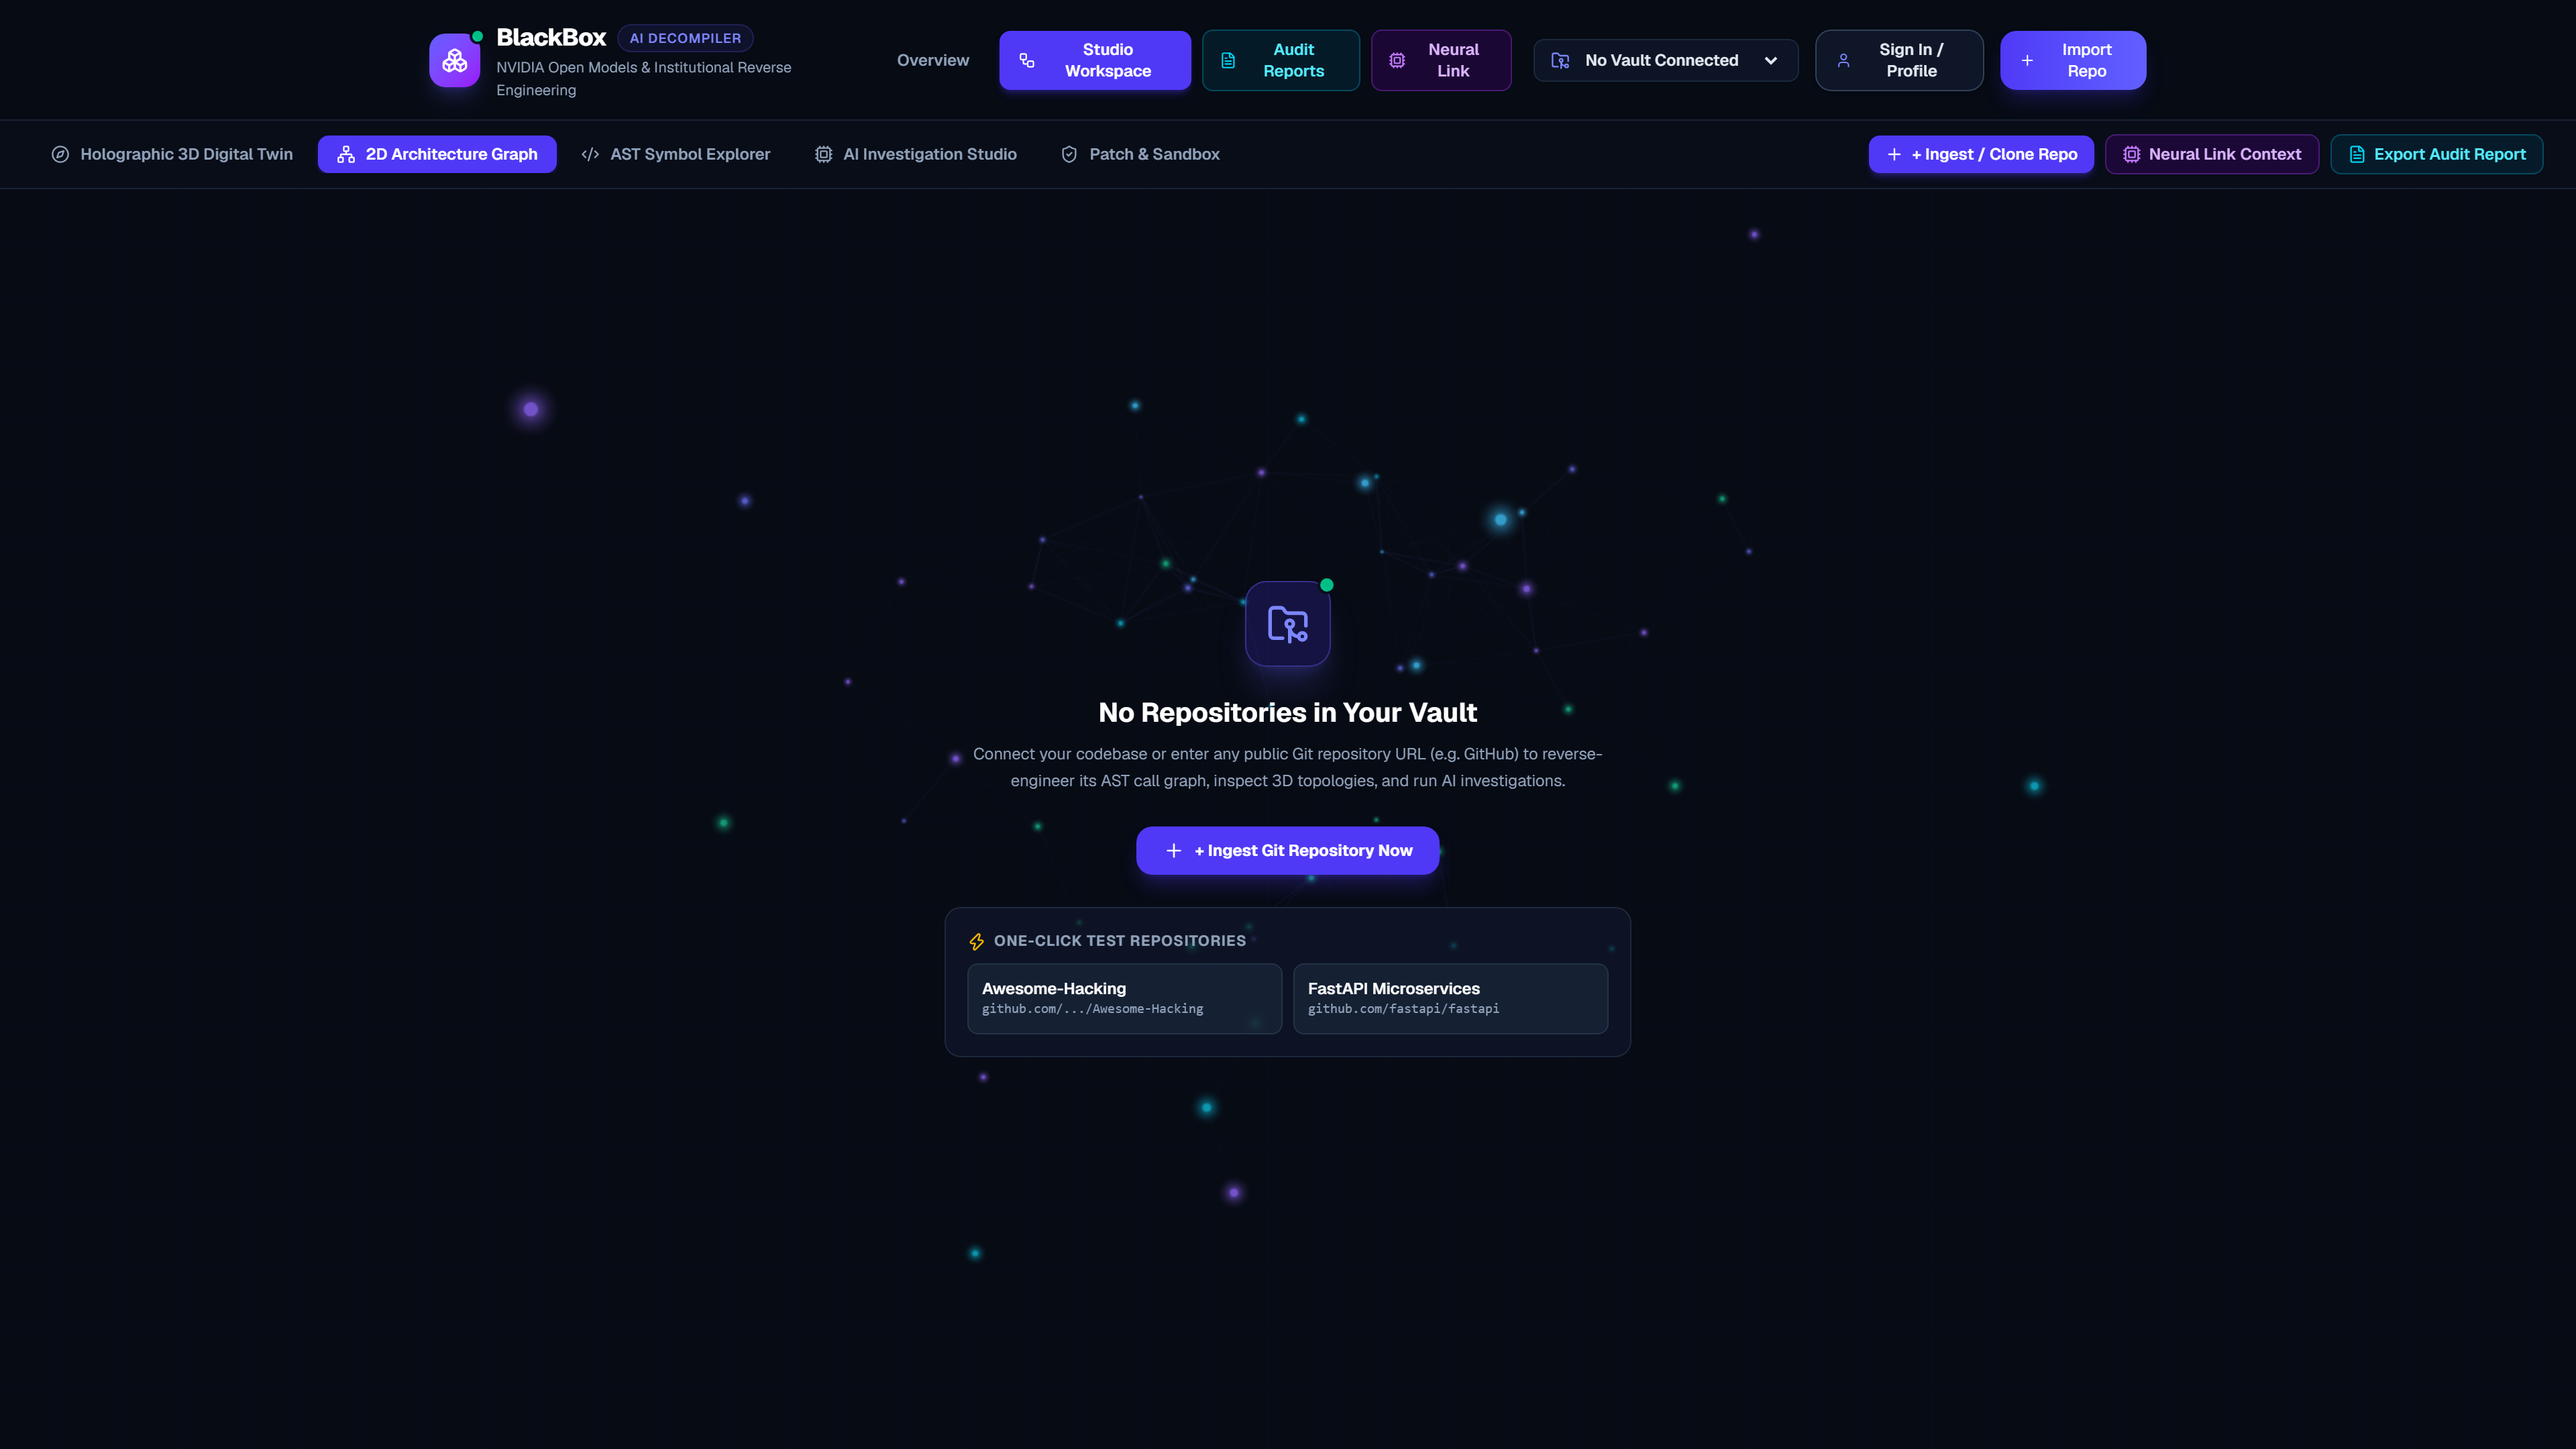
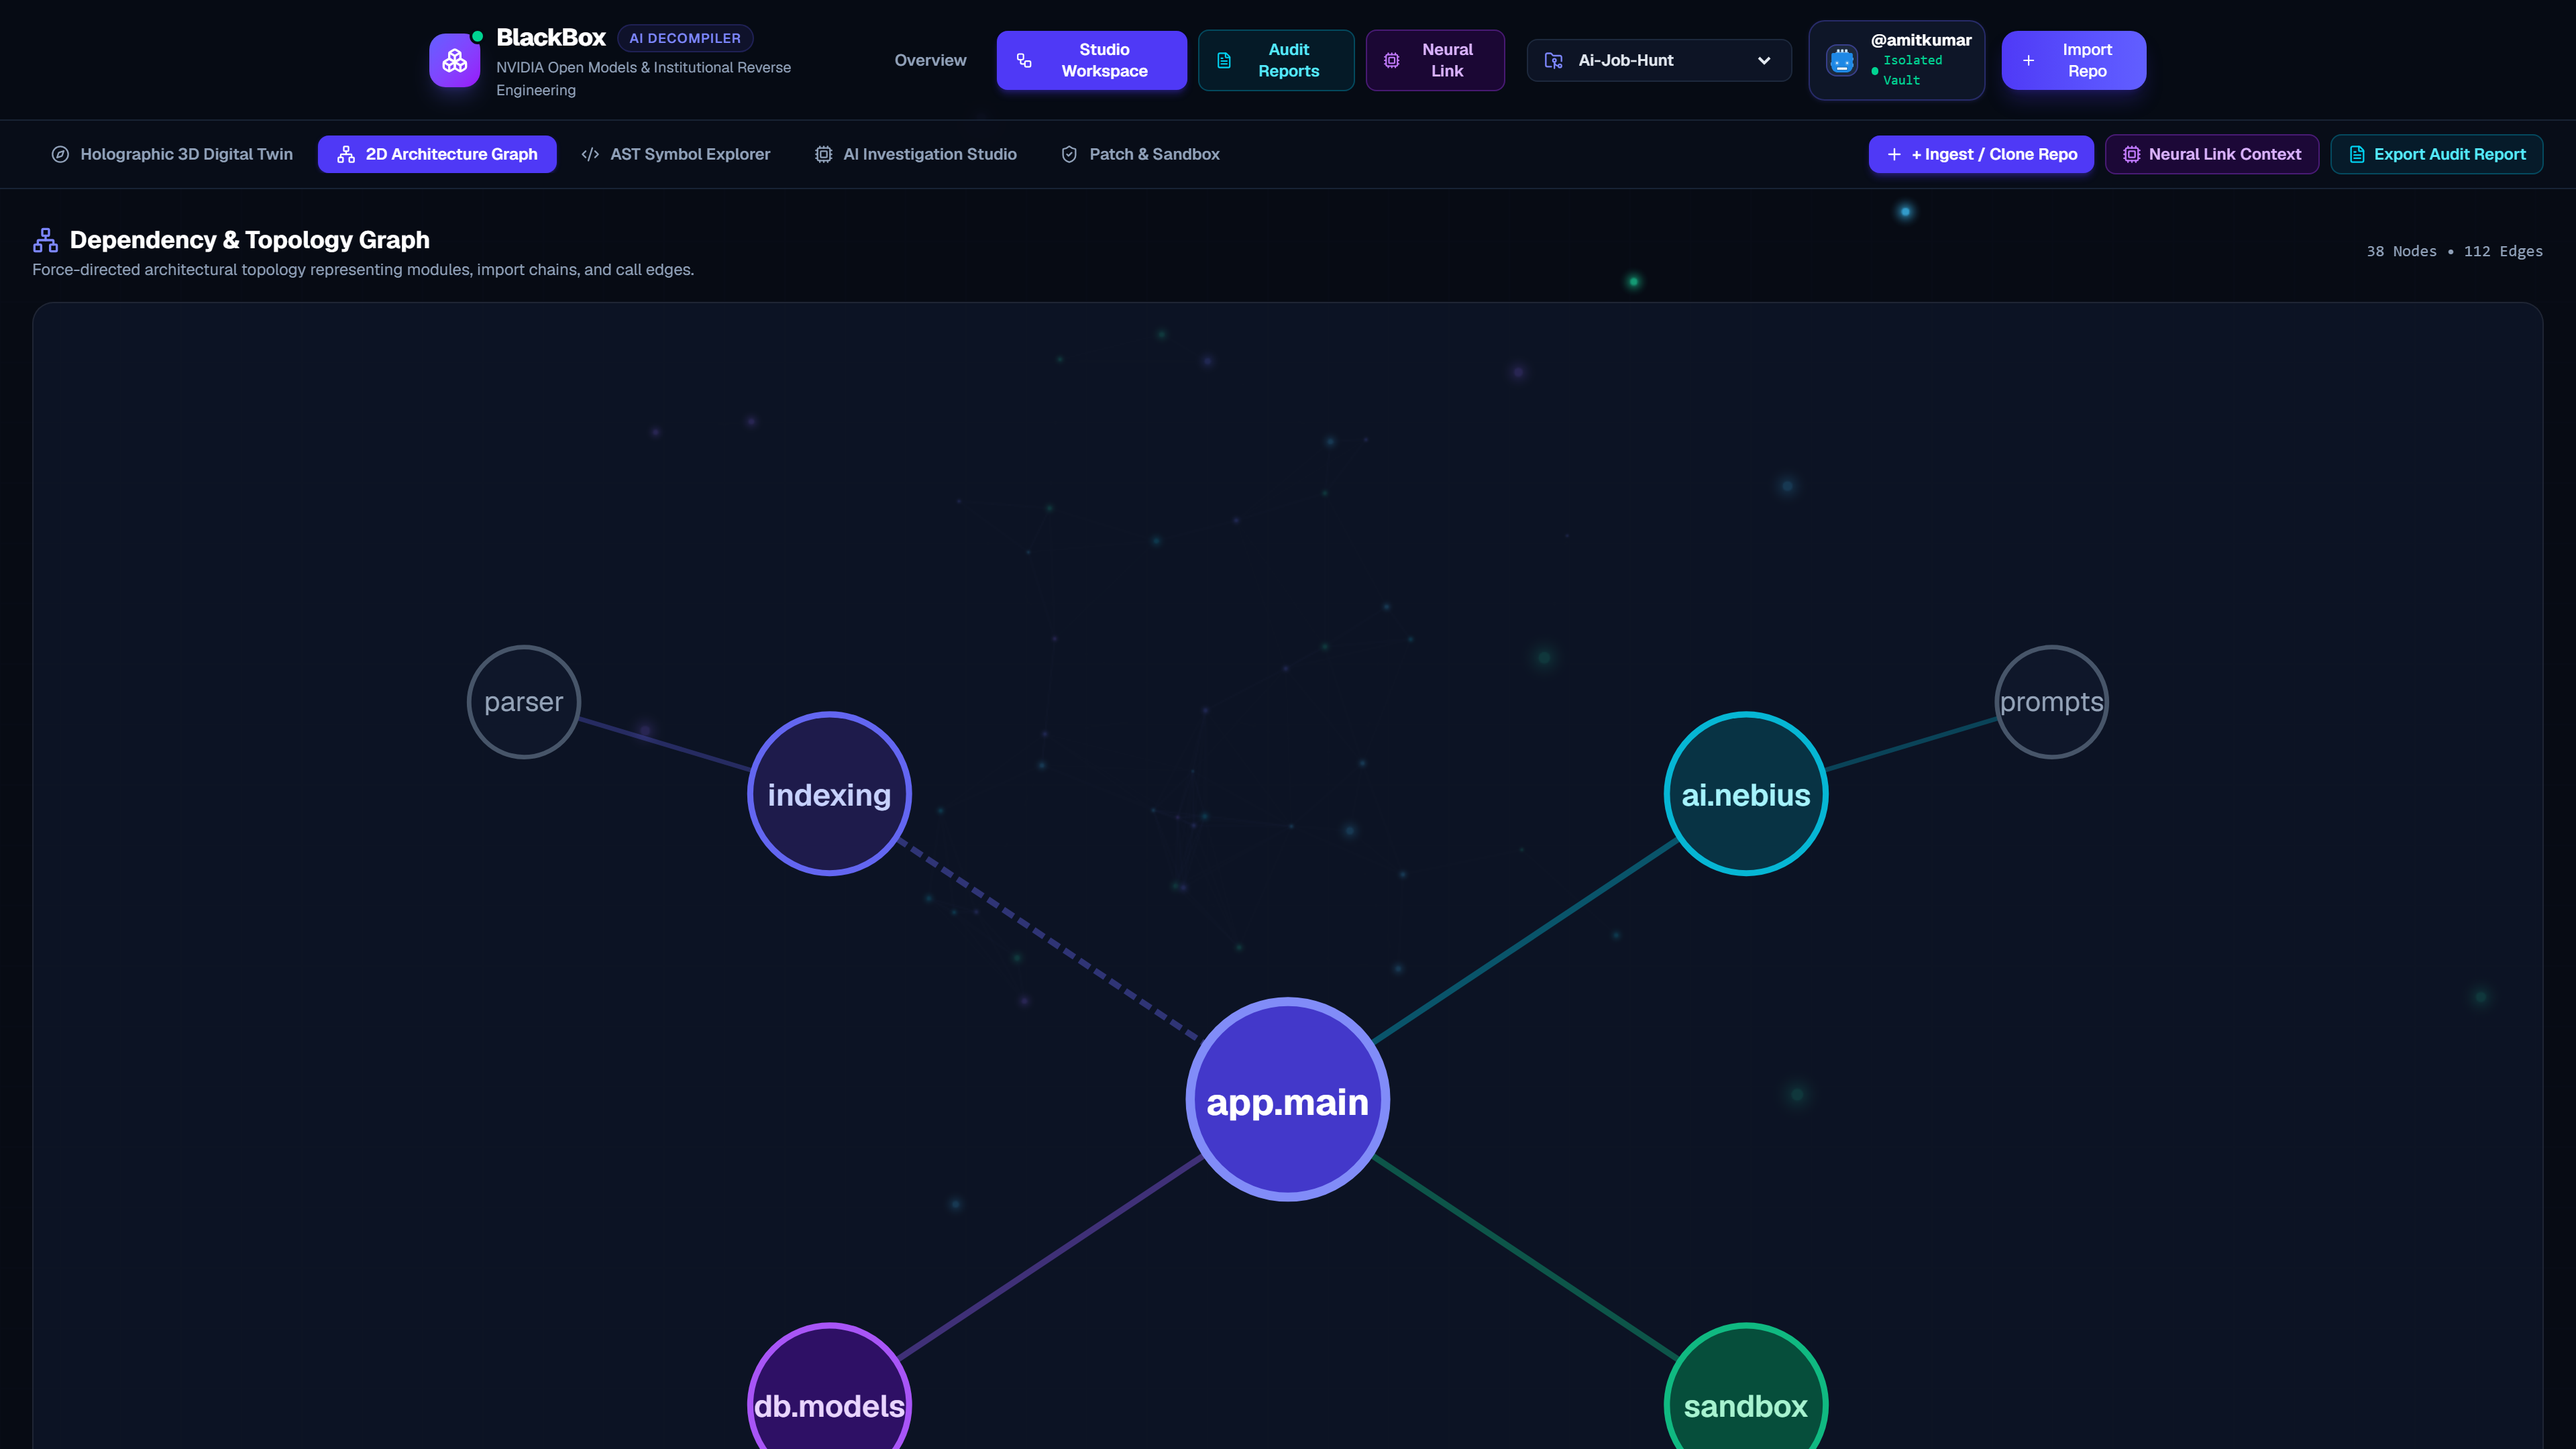
docs: showcase verified screenshots with Ai-Job-Hunt active vault in README

diff --git a/README.md b/README.md
@@ -10,10 +10,10 @@
 [![NVIDIA Open Models](https://img.shields.io/badge/NVIDIA-Llama--3.1--70B-76B900?style=for-the-badge&logo=nvidia&logoColor=white)](https://build.nvidia.com)
 [![Next.js 16](https://img.shields.io/badge/Frontend-Next.js%2016-black?style=for-the-badge&logo=next.js&logoColor=white)](https://nextjs.org)
 [![FastAPI](https://img.shields.io/badge/Backend-FastAPI%200.115-009688?style=for-the-badge&logo=fastapi&logoColor=white)](https://fastapi.tiangolo.com)
-[![Tests Passing](https://img.shields.io/badge/Tests-26%2F26%20Passing-brightgreen?style=for-the-badge&logo=pytest&logoColor=white)](docs/TEST_STATUS.md)
+[![Tests Passing](https://img.shields.io/badge/Tests-29%2F29%20Passing-brightgreen?style=for-the-badge&logo=pytest&logoColor=white)](docs/TEST_STATUS.md)
 [![License: MIT](https://img.shields.io/badge/License-MIT-blue.svg?style=for-the-badge)](LICENSE)
 
-[Features](#-key-features) • [Architecture](#-architecture--cloud-infrastructure) • [Quickstart](#-quickstart-guide) • [Environment Setup](#-environment-variables) • [Demo Walkthrough](#-instant-demo-walkthrough) • [Security](#-security--safe-computing) • [API Reference](#-api-endpoints)
+[Features](#-key-features) • [Platform Gallery](#-platform-interface--screenshots) • [Architecture](#-architecture--cloud-infrastructure) • [Quickstart](#-quickstart-guide) • [Security](#-security--safe-computing) • [API Reference](#-api-endpoints)
 
 </div>
 
@@ -35,29 +35,74 @@ When developers encounter massive, undocumented, or legacy repositories, reverse
 
 ## 📸 Platform Interface & Screenshots
 
-### 1. Interactive Architecture Dependency Graph
-> *Decompile any repository into an interactive dependency map showing file relationships, import chains, and AST symbol hierarchies in real time.*
+### 1. Futuristic 3D Landing Page & System Overview
+> *Interactive particle neural canvas, five-pillar architecture overview, and live service health metrics.*
 
 <div align="center">
-  <img src="docs/images/architecture_graph.jpg" alt="BlackBox Architecture Graph" width="95%" style="border-radius: 8px; border: 1px solid #1e293b;" />
+  <img src="docs/screenshots/01_landing_page.png" alt="BlackBox 3D Landing Page" width="100%" style="border-radius: 12px; border: 1px solid #334155; box-shadow: 0 8px 32px rgba(0,0,0,0.5);" />
 </div>
 
 <br/>
 
-### 2. Autonomous AI Investigation Studio
-> *Deep codebase reasoning grounded in real AST symbols and call edges, powered by NVIDIA open models on Nebius Token Factory with structured confidence scoring.*
+### 2. Holographic 3D Digital Twin (Ai-Job-Hunt Repository)
+> *Interactive 3D spherical topology mapping 30 source files across 3 module clusters with real-time change impact risk calculation.*
 
 <div align="center">
-  <img src="docs/images/ai_investigation.jpg" alt="AI Autonomous Investigation" width="95%" style="border-radius: 8px; border: 1px solid #1e293b;" />
+  <img src="docs/screenshots/02_holographic_3d_twin.png" alt="Holographic 3D Digital Twin" width="100%" style="border-radius: 12px; border: 1px solid #334155; box-shadow: 0 8px 32px rgba(0,0,0,0.5);" />
 </div>
 
 <br/>
 
-### 3. Monaco Unified Diff Review & Sandboxed Test Execution
-> *Side-by-side Monaco diff inspection with regression test execution inside an isolated security sandbox with strict command allowlists.*
+### 3. 2D Interactive Architecture Graph
+> *Hierarchical call and import graph powered by NetworkX with live node inspection and dependency reachability.*
 
 <div align="center">
-  <img src="docs/images/patch_review_sandbox.jpg" alt="Patch Review and Sandbox" width="95%" style="border-radius: 8px; border: 1px solid #1e293b;" />
+  <img src="docs/screenshots/03_2d_architecture_graph.png" alt="2D Architecture Graph" width="100%" style="border-radius: 12px; border: 1px solid #334155; box-shadow: 0 8px 32px rgba(0,0,0,0.5);" />
+</div>
+
+<br/>
+
+### 4. Multi-Language AST Symbol Explorer
+> *Line-accurate symbol parsing for Python and TypeScript/JavaScript with instant code preview, signatures, and docstrings.*
+
+<div align="center">
+  <img src="docs/screenshots/04_ast_symbol_explorer.png" alt="AST Symbol Explorer" width="100%" style="border-radius: 12px; border: 1px solid #334155; box-shadow: 0 8px 32px rgba(0,0,0,0.5);" />
+</div>
+
+<br/>
+
+### 5. Autonomous AI Investigation Studio (NVIDIA Open Models)
+> *Deep codebase reasoning powered by NVIDIA Nemotron-3 on Nebius Token Factory with grounded citations and structured findings.*
+
+<div align="center">
+  <img src="docs/screenshots/05_ai_investigation_studio.png" alt="NVIDIA AI Investigation Studio" width="100%" style="border-radius: 12px; border: 1px solid #334155; box-shadow: 0 8px 32px rgba(0,0,0,0.5);" />
+</div>
+
+<br/>
+
+### 6. Patch Review & Sandboxed Test Execution
+> *Autonomous unified diff proposal with sandboxed test runner execution and strict command allowlists.*
+
+<div align="center">
+  <img src="docs/screenshots/06_patch_and_sandbox.png" alt="Patch Review and Sandbox" width="100%" style="border-radius: 12px; border: 1px solid #334155; box-shadow: 0 8px 32px rgba(0,0,0,0.5);" />
+</div>
+
+<br/>
+
+### 7. Institutional Audit Report & Codebase Health Scoring
+> *Audit score calculation (98/100, Grade A+) with component language distribution and exportable HTML/Markdown/JSON downloads.*
+
+<div align="center">
+  <img src="docs/screenshots/07_institutional_audit_report.png" alt="Institutional Audit Report" width="100%" style="border-radius: 12px; border: 1px solid #334155; box-shadow: 0 8px 32px rgba(0,0,0,0.5);" />
+</div>
+
+<br/>
+
+### 8. Neural Link: Token-Aware Multi-Agent Context Compiler
+> *Zero-loss persistent project memory synthesizer with SHA-256 fingerprinting and one-click AGENTS.md export.*
+
+<div align="center">
+  <img src="docs/screenshots/08_neural_link_context_compiler.png" alt="Neural Link Context Compiler" width="100%" style="border-radius: 12px; border: 1px solid #334155; box-shadow: 0 8px 32px rgba(0,0,0,0.5);" />
 </div>
 
 ---
